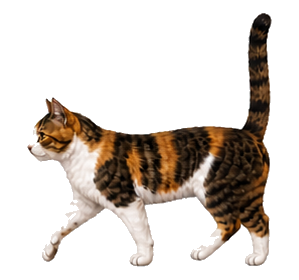
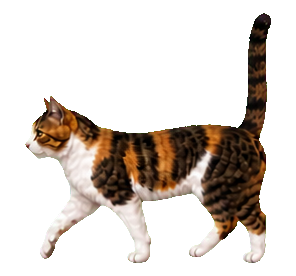
Replace sliding scout motion with frame-synced steps

diff --git a/scripts/extract-scout-walk-v2.js b/scripts/extract-scout-walk-v2.js
@@ -3,12 +3,19 @@ const path = require('path');
 const { PNG } = require('pngjs');
 
 const root = path.resolve(__dirname, '..');
-const source = path.join(root, 'assets', 'source', 'teiguo-scout-walk-8frame-v2.png');
+const source = path.join(root, 'assets', 'source', 'teiguo-scout-walk-8frame-green-v3.png');
 const output = path.join(root, 'assets', 'teiguo', 'walk-v2');
 const frameCount = 8;
 
 function isBackgroundCandidate(r, g, b) {
-  return Math.min(r, g, b) >= 224 && Math.max(r, g, b) - Math.min(r, g, b) <= 18;
+  return g > 105 && g > r * 1.16 && g > b * 1.16;
+}
+
+function edgeAlpha(r, g, b) {
+  if (isBackgroundCandidate(r, g, b)) return 0;
+  const greenDominance = g - Math.max(r, b);
+  if (g > 90 && greenDominance > 8) return Math.max(0, 255 - greenDominance * 8);
+  return 255;
 }
 
 function findBackground(sheet) {
@@ -74,47 +81,6 @@ function findCats(sheet, background) {
   return components.sort((a, b) => b.pixels.length - a.pixels.length).slice(0, frameCount).sort((a, b) => a.minX - b.minX);
 }
 
-function pruneThinProtrusions(sheet, component) {
-  const source = new Uint8Array(sheet.width * sheet.height);
-  component.pixels.forEach((pixel) => { source[pixel] = 1; });
-  const core = new Uint8Array(source.length);
-  component.pixels.forEach((pixel) => {
-    const x = pixel % sheet.width;
-    const y = Math.floor(pixel / sheet.width);
-    let neighbors = 0;
-    for (let dy = -2; dy <= 2; dy += 1) {
-      for (let dx = -2; dx <= 2; dx += 1) {
-        const nx = x + dx;
-        const ny = y + dy;
-        if (nx >= 0 && nx < sheet.width && ny >= 0 && ny < sheet.height) neighbors += source[ny * sheet.width + nx];
-      }
-    }
-    if (neighbors >= 13) core[pixel] = 1;
-  });
-
-  const pixels = component.pixels.filter((pixel) => {
-    const x = pixel % sheet.width;
-    const y = Math.floor(pixel / sheet.width);
-    for (let dy = -2; dy <= 2; dy += 1) {
-      for (let dx = -2; dx <= 2; dx += 1) {
-        const nx = x + dx;
-        const ny = y + dy;
-        if (nx >= 0 && nx < sheet.width && ny >= 0 && ny < sheet.height && core[ny * sheet.width + nx]) return true;
-      }
-    }
-    return false;
-  });
-  const xs = pixels.map((pixel) => pixel % sheet.width);
-  const ys = pixels.map((pixel) => Math.floor(pixel / sheet.width));
-  return {
-    pixels,
-    minX: Math.min(...xs),
-    maxX: Math.max(...xs),
-    minY: Math.min(...ys),
-    maxY: Math.max(...ys)
-  };
-}
-
 function cropCat(sheet, component) {
   const pad = 5;
   const minX = Math.max(0, component.minX - pad);
@@ -129,10 +95,14 @@ function cropCat(sheet, component) {
       if (!componentPixels.has(sheetPixel)) continue;
       const sourceIndex = sheetPixel << 2;
       const targetIndex = ((y - minY) * frame.width + x - minX) << 2;
-      frame.data[targetIndex] = sheet.data[sourceIndex];
-      frame.data[targetIndex + 1] = sheet.data[sourceIndex + 1];
-      frame.data[targetIndex + 2] = sheet.data[sourceIndex + 2];
-      frame.data[targetIndex + 3] = 255;
+      const r = sheet.data[sourceIndex];
+      const g = sheet.data[sourceIndex + 1];
+      const b = sheet.data[sourceIndex + 2];
+      const alpha = edgeAlpha(r, g, b);
+      frame.data[targetIndex] = r;
+      frame.data[targetIndex + 1] = Math.min(g, Math.max(r, b) + 12);
+      frame.data[targetIndex + 2] = b;
+      frame.data[targetIndex + 3] = alpha;
     }
   }
   return frame;
@@ -155,7 +125,7 @@ function main() {
   const sheet = PNG.sync.read(fs.readFileSync(source));
   const cats = findCats(sheet, findBackground(sheet));
   if (cats.length !== frameCount) throw new Error(`Expected ${frameCount} cats, found ${cats.length}`);
-  const frames = normalize(cats.map((cat) => cropCat(sheet, pruneThinProtrusions(sheet, cat))));
+  const frames = normalize(cats.map((cat) => cropCat(sheet, cat)));
   fs.mkdirSync(output, { recursive: true });
   frames.forEach((frame, index) => {
     const name = `walk_${String(index + 1).padStart(3, '0')}.png`;

diff --git a/scripts/test-pet-animation-timing.js b/scripts/test-pet-animation-timing.js
@@ -1,7 +1,7 @@
 const assert = require('assert');
 const fs = require('fs');
 const path = require('path');
-const { frameIndexAtElapsed, actionDuration } = require('../src/pet-animation-timing');
+const { frameIndexAtElapsed, actionDuration, scoutStepOffsetAtElapsed } = require('../src/pet-animation-timing');
 
 assert.equal(frameIndexAtElapsed(0, 100, 4), 0);
 assert.equal(frameIndexAtElapsed(99, 100, 4), 0);
@@ -10,12 +10,20 @@ assert.equal(frameIndexAtElapsed(399, 100, 4), 3);
 assert.equal(frameIndexAtElapsed(400, 100, 4), 0);
 assert.equal(frameIndexAtElapsed(900, 100, 4, false), 3);
 assert.equal(actionDuration(125, 4), 500);
+assert.equal(scoutStepOffsetAtElapsed(0, 140), 24);
+assert.equal(scoutStepOffsetAtElapsed(139, 140), 24);
+assert.equal(scoutStepOffsetAtElapsed(2100, 140), -24);
+assert.equal(scoutStepOffsetAtElapsed(2240, 140), -24);
 
 const rendererHtml = fs.readFileSync(path.join(__dirname, '..', 'src', 'renderer.html'), 'utf8');
 const rendererJs = fs.readFileSync(path.join(__dirname, '..', 'src', 'renderer.js'), 'utf8');
 assert.match(rendererHtml, /<canvas id="pet"/);
 assert.match(rendererJs, /requestAnimationFrame\(runAnimationFrame\)/);
 assert.match(rendererJs, /getContext\('2d'/);
+assert.match(rendererJs, /scoutStepOffsetAtElapsed/);
 assert.doesNotMatch(rendererJs, /setInterval\(showFrame/);
+const styles = fs.readFileSync(path.join(__dirname, '..', 'src', 'styles.css'), 'utf8');
+assert.doesNotMatch(styles, /animation:\s*paceAround/);
+assert.match(styles, /body\[data-view="scout"\] \.pet-wrap\.pacing/);
 
 console.log('Verified Canvas rendering, refresh-synchronized timing, looping, and one-shot completion boundaries.');

diff --git a/scripts/verify-assets.js b/scripts/verify-assets.js
@@ -52,6 +52,32 @@ for (let i = 1; i <= 8; i += 1) {
     if (image.data[p] > 180) opaque += 1;
   }
   if (transparent === 0 || opaque < 500) throw new Error(`Invalid smooth walk frame: ${file}`);
+  const groundedColumns = [];
+  for (let x = 0; x < image.width; x += 1) {
+    let grounded = false;
+    for (let y = Math.floor(image.height * 0.82); y < image.height; y += 1) {
+      if (image.data[(y * image.width + x) * 4 + 3] > 180) {
+        grounded = true;
+        break;
+      }
+    }
+    if (grounded) groundedColumns.push(x);
+  }
+  let pawGroups = 0;
+  let previousX = -10;
+  groundedColumns.forEach((x) => {
+    if (x - previousX > 3) pawGroups += 1;
+    previousX = x;
+  });
+  if (pawGroups < 3) throw new Error(`Smooth walk frame appears to be missing legs or paws: ${file}`);
+  for (let x = 0; x < image.width; x += 1) {
+    if (image.data[x * 4 + 3] > 20) throw new Error(`Smooth walk frame touches top edge: ${file}`);
+    if (image.data[((image.height - 1) * image.width + x) * 4 + 3] > 20) throw new Error(`Smooth walk frame touches bottom edge: ${file}`);
+  }
+  for (let y = 0; y < image.height; y += 1) {
+    if (image.data[y * image.width * 4 + 3] > 20) throw new Error(`Smooth walk frame touches left edge: ${file}`);
+    if (image.data[(y * image.width + image.width - 1) * 4 + 3] > 20) throw new Error(`Smooth walk frame touches right edge: ${file}`);
+  }
   checked += 1;
 }
 

diff --git a/src/renderer.js b/src/renderer.js
@@ -237,6 +237,14 @@ function runAnimationFrame(timestamp) {
   const frameCount = Math.max(1, (actions[currentAction] || []).length);
   const elapsed = timestamp - animationState.startedAt;
   const duration = animationTiming.actionDuration(animationState.frameDuration, frameCount);
+  if (currentAction === 'walk' && petWrap.classList.contains('pacing')) {
+    const stepOffset = animationTiming.scoutStepOffsetAtElapsed(
+      elapsed,
+      animationState.frameDuration,
+      frameCount * 2
+    );
+    petWrap.style.setProperty('--scout-step-x', `${stepOffset.toFixed(2)}px`);
+  }
   if (!animationState.loop && elapsed >= duration) {
     const onComplete = animationState.onComplete;
     const nextAction = animationState.nextAction || 'idle';
@@ -670,9 +678,9 @@ async function scoutForLead() {
   document.body.dataset.view = 'scout';
   setPetMotion('pacing');
   startAnimation('walk', 140, true);
-  manualModeUntil = Date.now() + 2600;
+  manualModeUntil = Date.now() + 2800;
   await bridge.setMode('scout');
-  await wait(2240);
+  await wait(2500);
   setPetMotion('');
   await showLeadCard();
   isScouting = false;

diff --git a/src/styles.css b/src/styles.css
@@ -94,12 +94,8 @@ body[data-view="result"] .pet-wrap {
   cursor: grabbing;
 }
 
-.pet-wrap.pacing {
-  animation: paceAround 2.24s linear both;
-}
-
-.pet-wrap.pacing #pet {
-  animation: scoutDirection 2.24s linear both;
+body[data-view="scout"] .pet-wrap.pacing {
+  transform: translateX(calc(-50% + var(--scout-step-x, 24px)));
 }
 
 .pet-wrap.found #pet {
@@ -1441,27 +1437,6 @@ body[data-view="lead"] #resetPet {
   50% {
     transform: translateX(-50%) translateY(-2px);
   }
-}
-
-@keyframes paceAround {
-  0% {
-    transform: translateX(calc(-50% + 0px));
-  }
-  44% {
-    transform: translateX(calc(-50% - 24px));
-  }
-  50% {
-    transform: translateX(calc(-50% - 24px));
-  }
-  94%,
-  100% {
-    transform: translateX(calc(-50% + 24px));
-  }
-}
-
-@keyframes scoutDirection {
-  0%, 49.9% { transform: translateX(-50%) scaleX(1); }
-  50%, 100% { transform: translateX(-50%) scaleX(-1); }
 }
 
 @keyframes faceOwner {

diff --git a/src/pet-animation-timing.js b/src/pet-animation-timing.js
@@ -8,6 +8,16 @@ function actionDuration(frameDurationMs, frameCount) {
   return Math.max(1, frameDurationMs) * Math.max(0, frameCount);
 }
 
-const petAnimationTimingApi = { frameIndexAtElapsed, actionDuration };
+function scoutStepOffsetAtElapsed(elapsedMs, frameDurationMs, totalFrames = 16, startX = 24, endX = -24) {
+  const safeFrameCount = Math.max(1, totalFrames);
+  const stepIndex = Math.min(
+    Math.floor(Math.max(0, elapsedMs) / Math.max(1, frameDurationMs)),
+    safeFrameCount - 1
+  );
+  if (safeFrameCount === 1) return endX;
+  return startX + ((endX - startX) * stepIndex) / (safeFrameCount - 1);
+}
+
+const petAnimationTimingApi = { frameIndexAtElapsed, actionDuration, scoutStepOffsetAtElapsed };
 if (typeof module !== 'undefined' && module.exports) module.exports = petAnimationTimingApi;
 if (typeof window !== 'undefined') window.PET_ANIMATION_TIMING = petAnimationTimingApi;

diff --git a/scripts/capture-real-scout-gif.js b/scripts/capture-real-scout-gif.js
@@ -126,6 +126,8 @@ async function main() {
   for (let index = 0; index < frameCount; index += 1) {
     const remaining = startedAt + index * FRAME_DELAY_MS - Date.now();
     if (remaining > 0) await wait(remaining);
+    const view = await win.webContents.executeJavaScript(`document.body.dataset.view`);
+    if (view !== 'scout') throw new Error(`Capture left the pet-only scout view at frame ${index}: ${view}`);
     const image = await win.webContents.capturePage();
     if ([0, 8, 16, 24, 31].includes(index)) {
       fs.writeFileSync(path.join(app.getPath('temp'), `opportunity-pet-scout-${index}.png`), image.toPNG());
